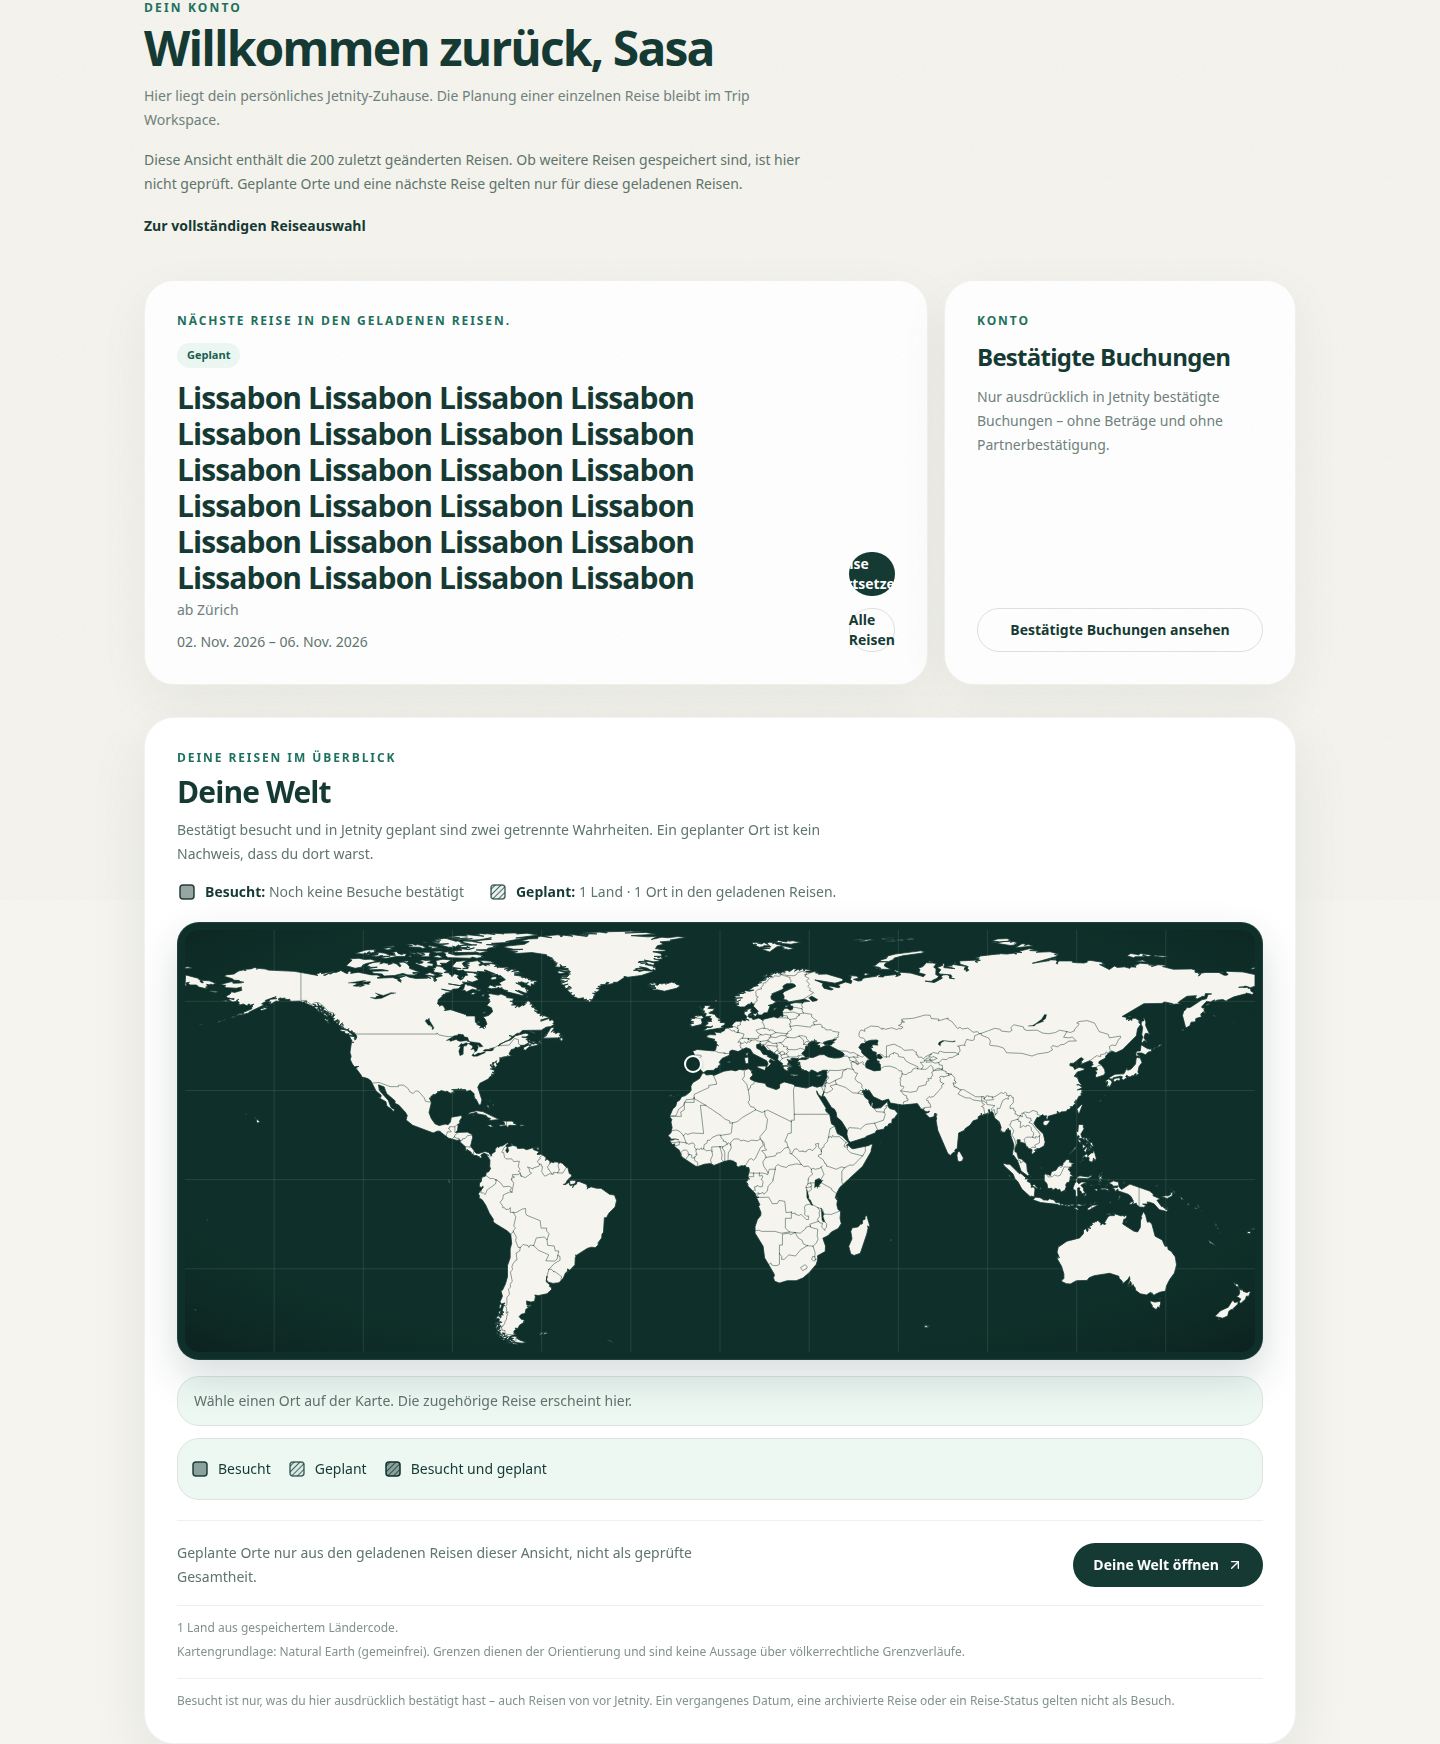
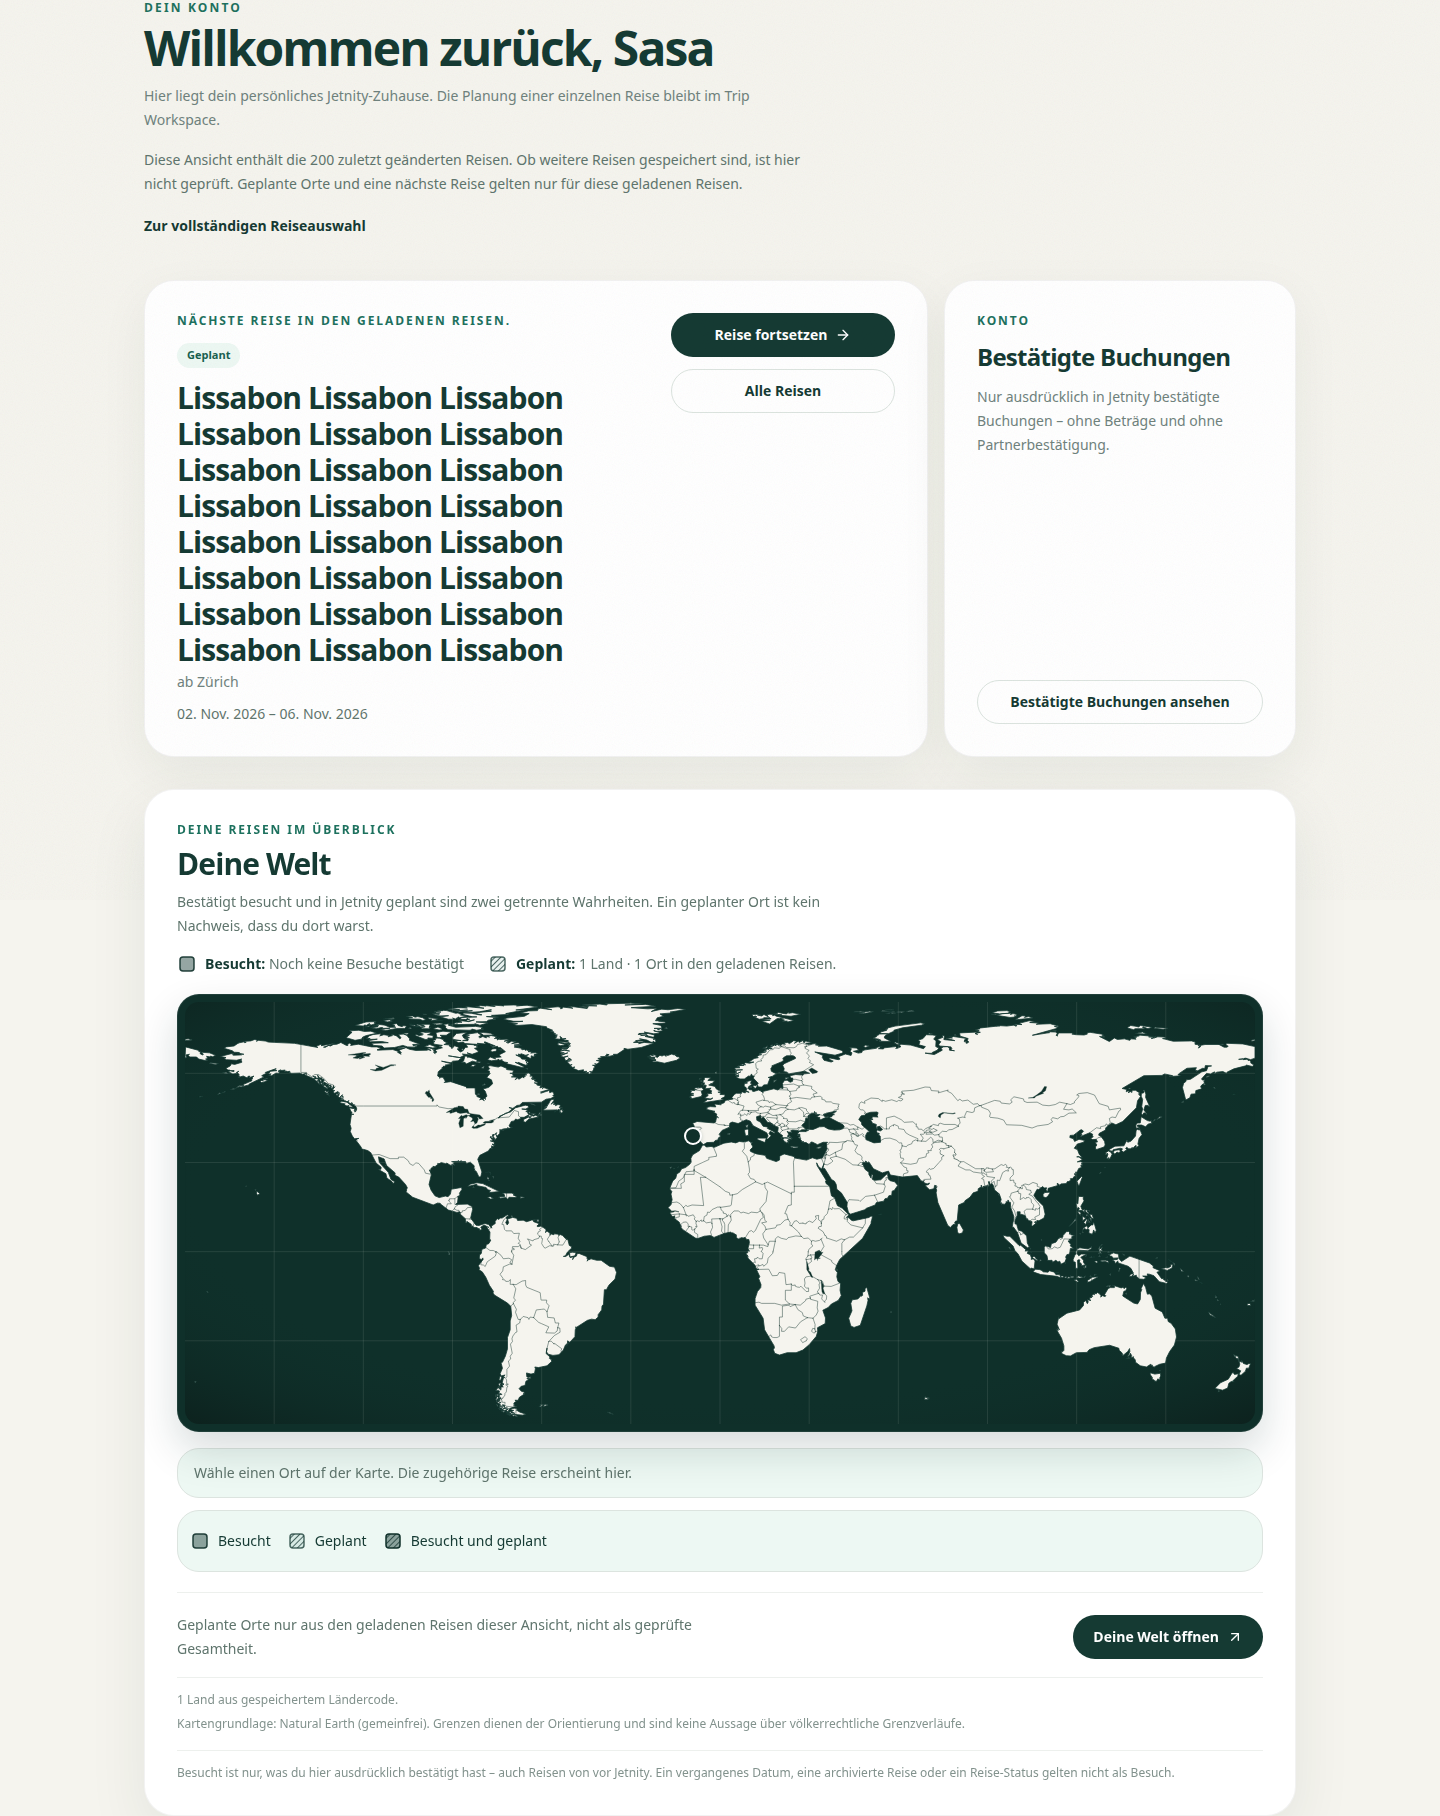
Keep Home action labels inside their buttons.
A valid 116-character title no longer shrinks the next-trip actions. The mounted audit checks text rectangles, overlap, target size and keyboard activation, and keeps the 215-character title as labelled stress evidence.

diff --git a/components/account/AccountUebersicht.tsx b/components/account/AccountUebersicht.tsx
@@ -129,8 +129,8 @@ export default function AccountUebersicht({
             data-account-naechste={naechste.lage}
             className="flex h-full min-w-0 flex-col rounded-[30px] border border-black/5 bg-white p-6 shadow-[0_16px_50px_rgba(15,46,42,0.06)] sm:p-8"
           >
-            <div className="flex min-w-0 flex-1 flex-col justify-between gap-6 xl:flex-row xl:items-end">
-              <div className="min-w-0">
+            <div className="flex min-w-0 flex-1 flex-col justify-between gap-6 xl:flex-row xl:items-start">
+              <div className="min-w-0 flex-1">
                 <p className="text-xs font-semibold uppercase tracking-[0.16em] text-brand-600">
                   {naechsteReiseBezeichnung(naechste.lage, fenster)}
                 </p>
@@ -149,19 +149,19 @@ export default function AccountUebersicht({
                   {zeitraum(naechste.reise.startDate, naechste.reise.endDate)}
                 </p>
               </div>
-              <div className="flex w-full min-w-0 flex-col gap-3 sm:flex-row xl:w-56 xl:flex-col">
+              <div className="flex w-full flex-col gap-3 sm:flex-row xl:w-56 xl:shrink-0 xl:flex-col">
                 <Link
                   href={`/reisen/${naechste.reise.id}` as Route}
-                  className="inline-flex h-11 w-full items-center justify-center gap-2 rounded-full bg-brand-800 px-5 text-sm font-semibold text-white transition hover:-translate-y-0.5 hover:bg-brand-900 sm:w-auto xl:w-full"
+                  className="inline-flex min-h-11 w-full items-center justify-center gap-2 rounded-full bg-brand-800 px-5 py-2 text-center text-sm font-semibold leading-5 text-white transition hover:-translate-y-0.5 hover:bg-brand-900 sm:w-auto xl:w-full"
                 >
-                  Reise fortsetzen
-                  <ArrowRight className="h-4 w-4" />
+                  <span className="min-w-0 break-words">Reise fortsetzen</span>
+                  <ArrowRight className="h-4 w-4 shrink-0" />
                 </Link>
                 <Link
                   href="/reisen"
-                  className="inline-flex h-11 w-full items-center justify-center rounded-full border border-line-200 bg-white px-5 text-sm font-semibold text-brand-800 transition hover:bg-surface-50 sm:w-auto xl:w-full"
+                  className="inline-flex min-h-11 w-full items-center justify-center rounded-full border border-line-200 bg-white px-5 py-2 text-center text-sm font-semibold leading-5 text-brand-800 transition hover:bg-surface-50 sm:w-auto xl:w-full"
                 >
-                  Alle Reisen
+                  <span className="min-w-0 break-words">Alle Reisen</span>
                 </Link>
               </div>
             </div>
